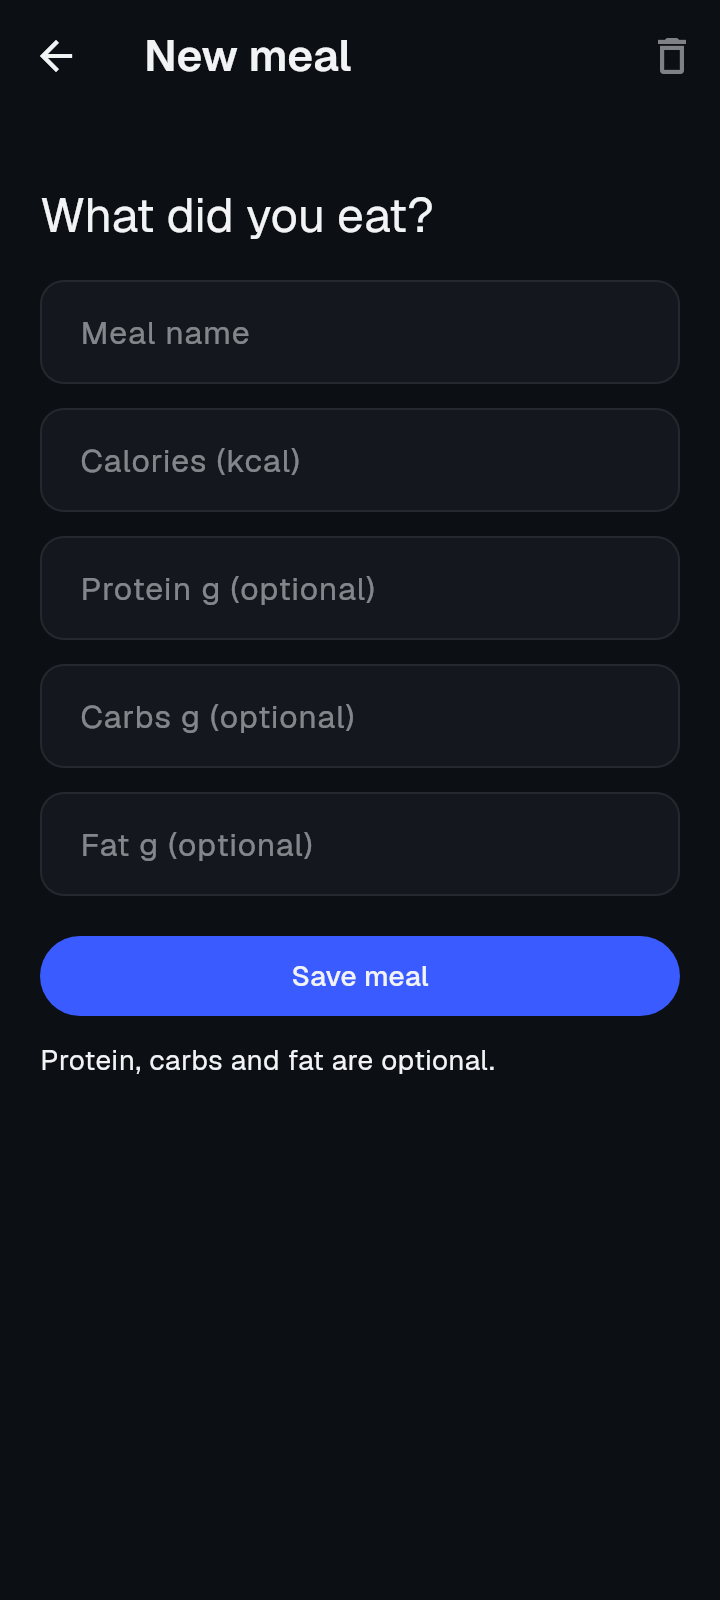
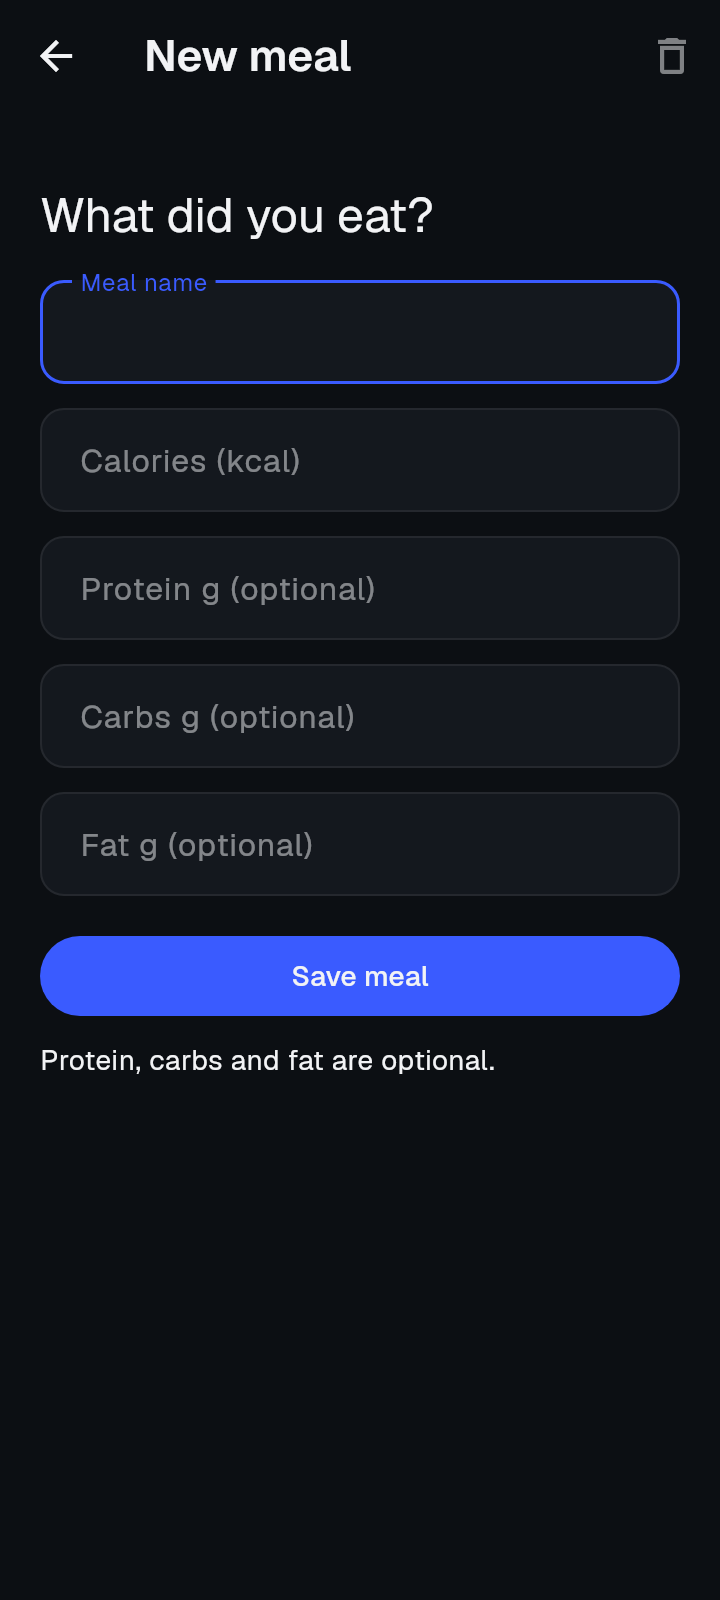
Record the anticipation fixes and the camera check in the Tier1 handover

diff --git a/docs/UI_REVIEW_AND_HANDOVER_2026-11-14.md b/docs/UI_REVIEW_AND_HANDOVER_2026-11-14.md
@@ -88,6 +88,11 @@ an Edit button. (d) is DONE in `bff13cb` (owner said yes): a summary card (name,
   screen; a second tap on it takes the photo), History. `Manual entry` moved to the app bar. Renders: `12-today`.
   `Change targets` on Today opens a sheet (`lib/features/tier1/targets.dart`, saved to `tier1/targets.json`; render `13-targets`).
   NEXT: the design's Goals and AI tabs, if the owner wants them in Tier1.
+- Anticipation fixes after using the phone (`abdf5d4` and three commits before): the keyboard's Next/Done
+  walks the manual form and Done saves; a blank manual entry opens with the keyboard up; after logging a meal
+  of today the app returns to Today; a photo kept on the phone reads "Your photo" with `Estimate photo` as the
+  only filled button (render `14-photo-kept-local`). Camera capture and the consent dialog were checked on the
+  Samsung with "Keep local"; no photo was sent.
   Checked on the Samsung on 2026-11-16 with the APK from run 43776290244 (`7aff81a`): all three tabs render
   (`device-SM-G780G-tabs-2026-11-16.png`). Motion itself was not judged; that needs eyes on the phone.
 - A logged meal counts as eaten; "Ate half" is the exception ("190 of 380 kcal eaten"). The word "served" is gone
